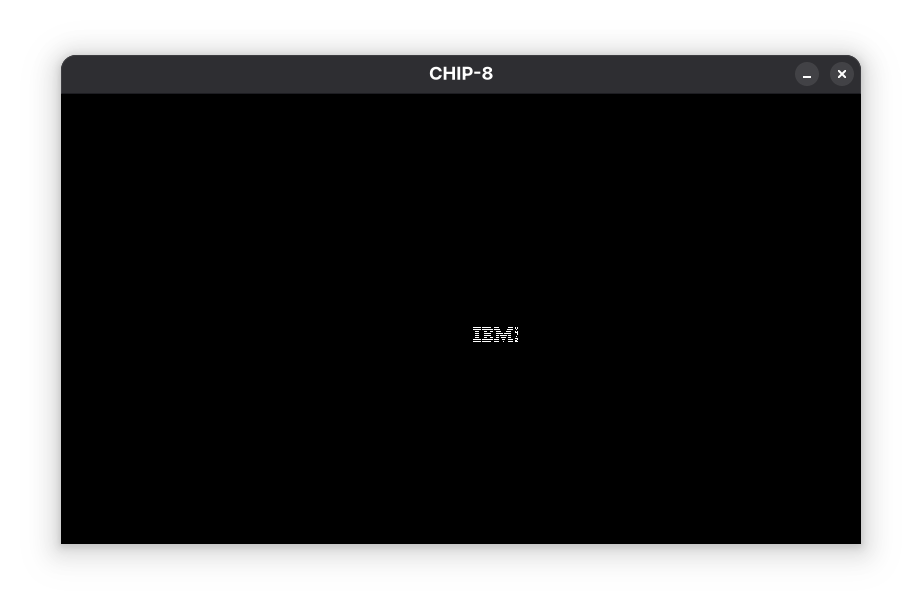
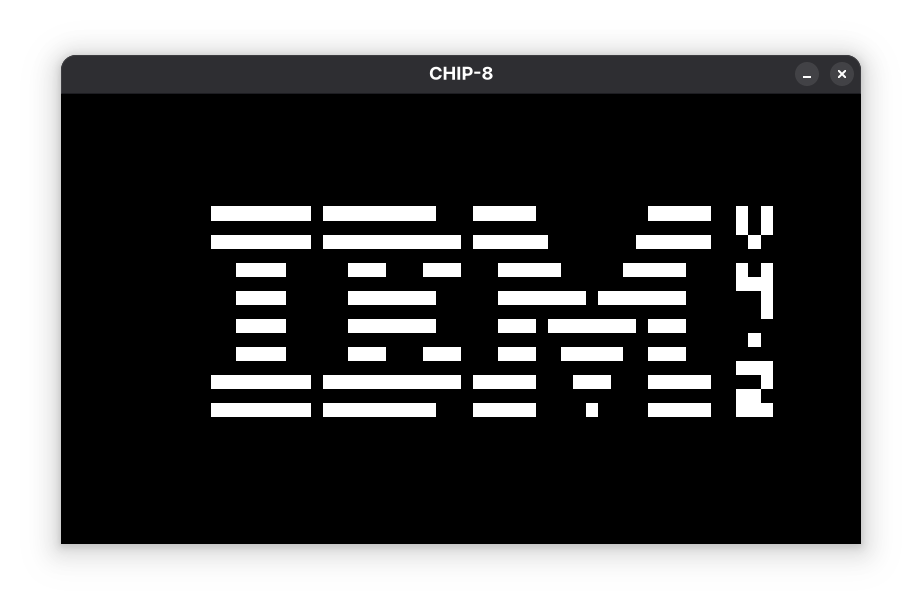
scaled up

Changed region(s): [[0.2126, 0.311, 0.8503, 0.6841], [0.7896, 0.4354, 0.8503, 0.5286], [0.7896, 0.5286, 0.82, 0.5597]]

diff --git a/main.c b/main.c
@@ -225,7 +225,15 @@ int main() {
         // — draw to screen —
         BeginDrawing();
         ClearBackground(BLACK);
-        DrawTexture(texture, 800/2, 450/2, WHITE);
+        Rectangle src = { 0, 0, SCREEN_WIDTH, SCREEN_HEIGHT };
+        Rectangle dest = {
+            0,
+            0,
+            GetScreenWidth(),   // or 800
+            GetScreenHeight()    // or 450
+        };
+        Vector2 origin = { 0, 0 };
+        DrawTexturePro(texture, src, dest, origin, 0.0f, WHITE);
         EndDrawing();
     }
 }
